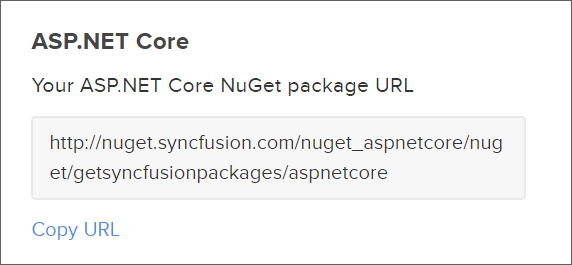
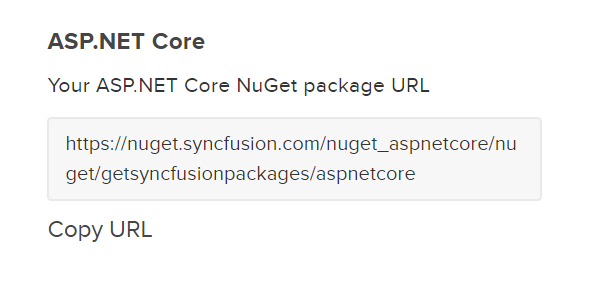
EXT-3461-NuGet-Feed-Changes

diff --git a/aspnet-core/NuGet-Packages.md b/aspnet-core/NuGet-Packages.md
@@ -21,7 +21,7 @@ You should get the private Syncfusion ASP.NET Core NuGet feed URL to install or 
 
 2. Navigate to **WEB(Essential JS1)**, click the Copy URL label under ASP.NET Core platform to copy the Syncfusion ASP.NET Core platform NuGet feed to clipboard or directly use the following URL: 
 
-    [http://nuget.syncfusion.com/nuget_aspnetcore/nuget/getsyncfusionpackages/aspnetcore](http://nuget.syncfusion.com/nuget_aspnetcore/nuget/getsyncfusionpackages/aspnetcore) 
+    [https://nuget.syncfusion.com/nuget_aspnetcore/nuget/getsyncfusionpackages/aspnetcore](https://nuget.syncfusion.com/nuget_aspnetcore/nuget/getsyncfusionpackages/aspnetcore) 
 
     ![](NuGet_Packages_Images/img1.png)
 
@@ -42,7 +42,7 @@ You should get the private Syncfusion ASP.NET Core NuGet feed URL to install or 
     **Name:** Name of the package listed in the available package sources.
     
     **Source:** Syncfusion ASP.NET Core NuGet Feed URL      
-    [http://nuget.syncfusion.com/nuget_aspnetcore/nuget/getsyncfusionpackages/aspnetcore](http://nuget.syncfusion.com/nuget_aspnetcore/nuget/getsyncfusionpackages/aspnetcore).
+    [https://nuget.syncfusion.com/nuget_aspnetcore/nuget/getsyncfusionpackages/aspnetcore](https://nuget.syncfusion.com/nuget_aspnetcore/nuget/getsyncfusionpackages/aspnetcore).
 
 5.	Click the **Update** button to add the name and source details to package sources. 
 
@@ -64,7 +64,7 @@ You should get the private Syncfusion ASP.NET Core NuGet feed URL to install or 
    
     **Name:** Enter the name (For e.g., Syncfusion ASP.NET Core Packages).
    
-    **Location:** Enter the following URL – [http://nuget.syncfusion.com/nuget_aspnetcore/nuget/getsyncfusionpackages/aspnetcore](http://nuget.syncfusion.com/nuget_aspnetcore/nuget/getsyncfusionpackages/aspnetcore).
+    **Location:** Enter the following URL – [https://nuget.syncfusion.com/nuget_aspnetcore/nuget/getsyncfusionpackages/aspnetcore](https://nuget.syncfusion.com/nuget_aspnetcore/nuget/getsyncfusionpackages/aspnetcore).
 
     ![](NuGet_Packages_Images/img5.png)
  
@@ -114,7 +114,7 @@ To reference the Syncfusion ASP.NET Core component using the Package Manager Con
     Install-Package Syncfusion.EJ.AspNet.Core
 
     #install specified package in default project with specified Package Source
-    Install-Package Syncfusion.EJ.AspNet.Core -Source “http://nuget.syncfusion.com/nuget_aspnetcore/nuget/getsyncfusionpackages/aspnetcore”
+    Install-Package Syncfusion.EJ.AspNet.Core -Source “https://nuget.syncfusion.com/nuget_aspnetcore/nuget/getsyncfusionpackages/aspnetcore”
 
     #install specified package in specified project 
     Install-Package Syncfusion.EJ.AspNet.Core -ProjectName SyncfusionDemoApplication
@@ -162,10 +162,10 @@ The NuGet Command Line Interface (CLI), nuget.exe, provides the full extent of N
 
     ~~~
     #For Windows platform
-    nuget.exe Sources Add –Name “Syncfusion Source” –Source “http://nuget.syncfusion.com/nuget_aspnetcore/nuget/getsyncfusionpackages/aspnetcore”
+    nuget.exe Sources Add –Name “Syncfusion Source” –Source “https://nuget.syncfusion.com/nuget_aspnetcore/nuget/getsyncfusionpackages/aspnetcore”
 
     #For MAC/Linux platform
-    mono nuget.exe Sources Add –Name “Syncfusion Source” –Source “http://nuget.syncfusion.com/nuget_aspnetcore/nuget/getsyncfusionpackages/aspnetcore”
+    mono nuget.exe Sources Add –Name “Syncfusion Source” –Source “https://nuget.syncfusion.com/nuget_aspnetcore/nuget/getsyncfusionpackages/aspnetcore”
     ~~~
 
 ### NuGet installation
@@ -192,7 +192,7 @@ nuget.exe install “Syncfusion.EJ.AspNet.Core”
 nuget.exe install “C:\Users\SyncfusionApplication\package.config”
 
 #install specific Syncfusion NuGet package with Syncfusion ASP.NET Core NuGet feed for Windows 
-nuget.exe install “Syncfusion.EJ.AspNet.Core”  –Source http://nuget.syncfusion.com/nuget_aspnetcore/nuget/getsyncfusionpackages/aspnetcore”
+nuget.exe install “Syncfusion.EJ.AspNet.Core”  –Source https://nuget.syncfusion.com/nuget_aspnetcore/nuget/getsyncfusionpackages/aspnetcore”
 
 #install specific package for Mac and Linux 
 mono nuget.exe install “ Syncfusion.EJ.AspNet.Core”
@@ -201,7 +201,7 @@ mono nuget.exe install “ Syncfusion.EJ.AspNet.Core”
 mono nuget.exe install “C:\Users\SyncfusionApplication\package.config”
 
 #install specific Syncfusion NuGet package with Syncfusion ASP.NET Core NuGet feed for Mac and Linux 
-mono nuget.exe install “Syncfusion.EJ.AspNet.Core”  –Source “http://nuget.syncfusion.com/nuget_aspnetcore/nuget/getsyncfusionpackages/aspnetcore”
+mono nuget.exe install “Syncfusion.EJ.AspNet.Core”  –Source “https://nuget.syncfusion.com/nuget_aspnetcore/nuget/getsyncfusionpackages/aspnetcore”
 ~~~
 
 ## Managing NuGet package using Dotnet CLI
@@ -222,7 +222,7 @@ The NuGet Command Line Interface (CLI), Dotnet.exe, provides the full extent of 
     **For example :**
 
     ~~~        
-    dotnet add package Syncfusion.EJ.AspNet.Core  -s “http://nuget.syncfusion.com/nuget_aspnetcore/nuget/getsyncfusionpackages/aspnetcore”
+    dotnet add package Syncfusion.EJ.AspNet.Core  -s “https://nuget.syncfusion.com/nuget_aspnetcore/nuget/getsyncfusionpackages/aspnetcore”
     ~~~
 
     **Restore**
@@ -286,7 +286,7 @@ To update the installed Syncfusion ASP.NET Core NuGet packages using the Package
     Update-Package Syncfusion.EJ.AspNet.Core
 
     #Update specified package in default project with specified Package Source
-    Update-Package Syncfusion.EJ.AspNet.Core –Source “http://nuget.syncfusion.com/nuget_aspnetcore/nuget/getsyncfusionpackages/aspnetcore” 
+    Update-Package Syncfusion.EJ.AspNet.Core –Source “https://nuget.syncfusion.com/nuget_aspnetcore/nuget/getsyncfusionpackages/aspnetcore” 
     #Update specified package in specified project 
     Update-Package Syncfusion.EJ.AspNet.Core -ProjectName SyncfusionDemoApplication
     ~~~
@@ -322,7 +322,7 @@ Using the NuGet CLI, all the NuGet packages in the project can be updated to the
     nuget update “C:\Users\SyncfusionApplication\package.config”
 
     #Update all NuGet packages from specified Packages Source
-    nuget update -Source “http://nuget.syncfusion.com/nuget_aspnetcore/nuget/getsyncfusionpackages/aspnetcore”
+    nuget update -Source “https://nuget.syncfusion.com/nuget_aspnetcore/nuget/getsyncfusionpackages/aspnetcore”
     ~~~
 
     N> Update command is not working as expected in Mono (Mac and Linux) and projects using PackageReference format.
